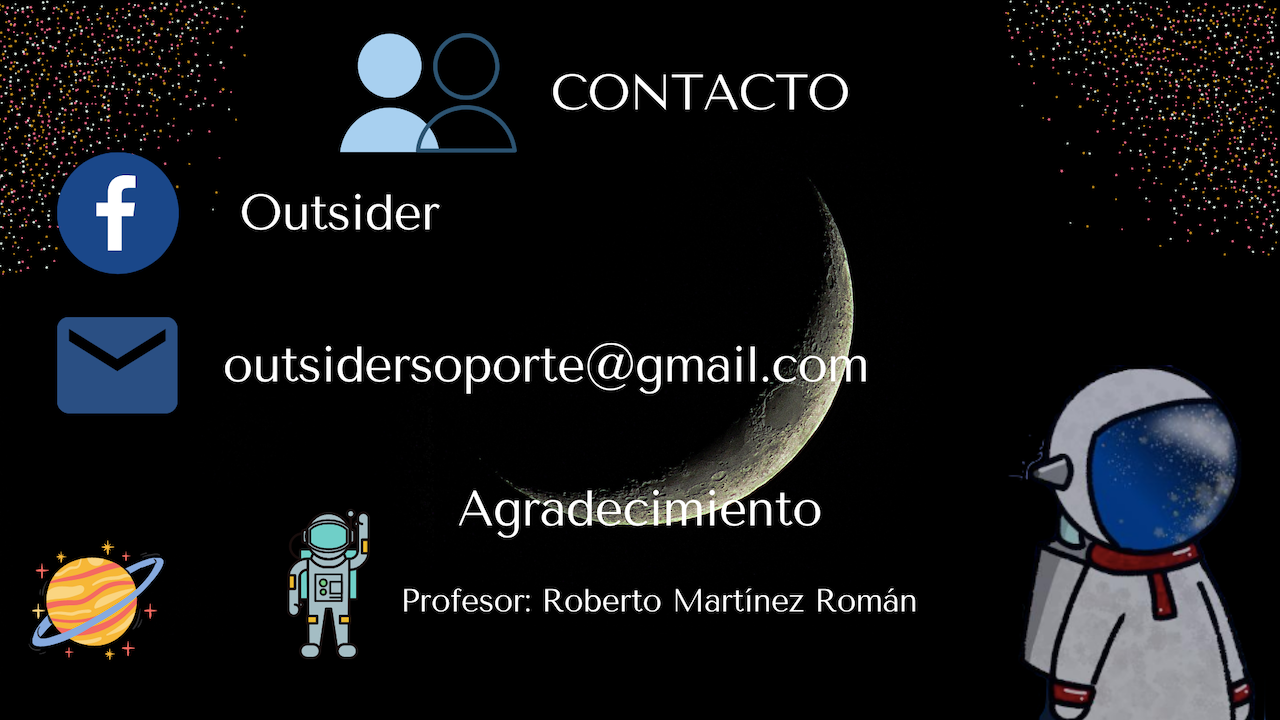
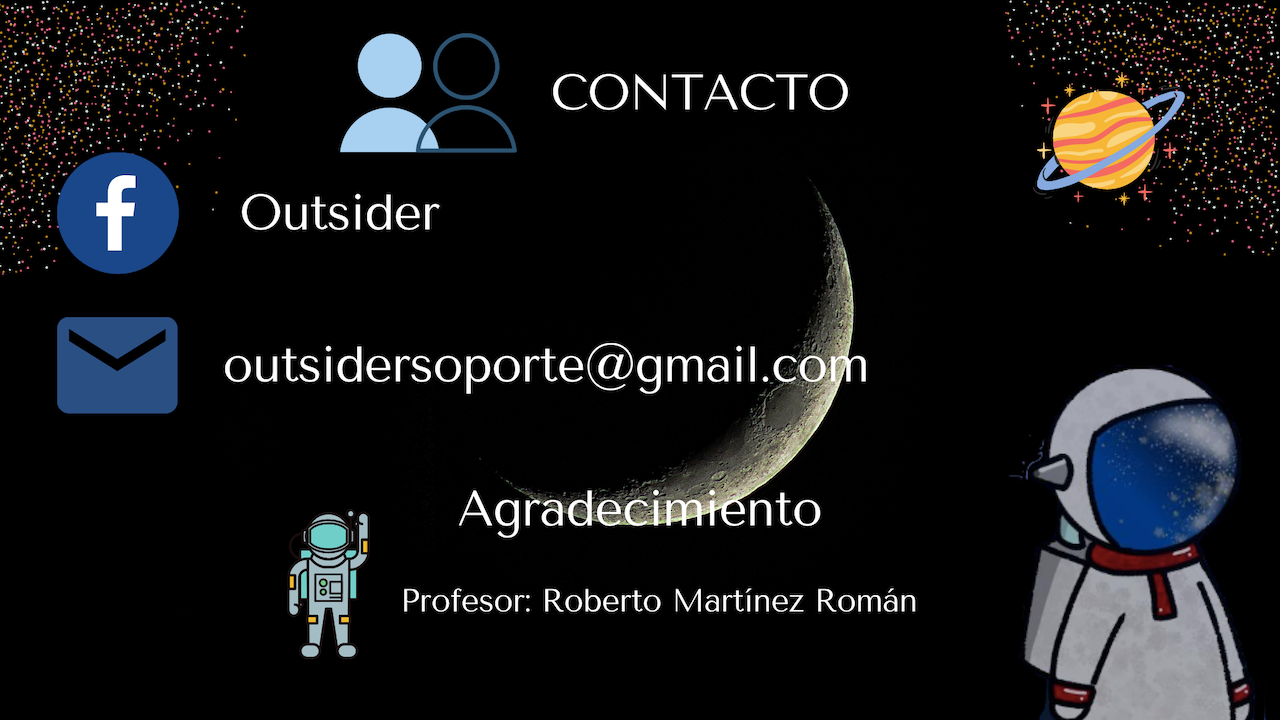
Boton Back

Changed region(s): [[0.8125, 0.1222, 0.9375, 0.275], [0.0, 0.7639, 0.125, 0.9167]]

diff --git a/core/src/mx/itesm/enigma/outsider/PantallaConfiguracion.java b/core/src/mx/itesm/enigma/outsider/PantallaConfiguracion.java
@@ -55,7 +55,7 @@ public class PantallaConfiguracion extends Pantalla {
 
         ImageButton btnNP = new ImageButton(trdBtNuevaPartida, trdBtNuevaPartidaInv);
 
-        btnNP.setPosition(ANCHO * .8f, ALTO * .39F, Align.topLeft);
+        btnNP.setPosition(ANCHO * .48f, ALTO * .39F, Align.topLeft);
 
         btnNP.addListener(new ClickListener() {
             @Override
@@ -84,7 +84,7 @@ public class PantallaConfiguracion extends Pantalla {
         final ImageButton.ImageButtonStyle Apagado=new ImageButton.ImageButtonStyle(estiloApagado);
 
         final ImageButton btnM = new ImageButton(trdBtMusica, trdBtMusicaInv);
-        btnM.setPosition(ANCHO * .53F, ALTO * .3F, Align.center);
+        btnM.setPosition(ANCHO * .7F, ALTO * .3F, Align.center);
 
         //Listener Música
         btnM.addListener(new ClickListener() {
@@ -130,7 +130,7 @@ public class PantallaConfiguracion extends Pantalla {
         final ImageButton.ImageButtonStyle ApagadoSonido =new ImageButton.ImageButtonStyle(estiloApagadosonido);
 
         final ImageButton btnS = new ImageButton(trdBtnSonido, trdBtnSonidoInv);
-        btnS.setPosition(ANCHO * .7F, ALTO * .3F, Align.center);
+        btnS.setPosition(ANCHO * .86F, ALTO * .3F, Align.center);
 
         //Leer preferencias
         final Preferences preferences=Gdx.app.getPreferences("Sonido");

diff --git a/core/src/mx/itesm/enigma/outsider/PantallaMapa.java b/core/src/mx/itesm/enigma/outsider/PantallaMapa.java
@@ -108,7 +108,7 @@ public class PantallaMapa extends Pantalla {
         ImageButton btnNP = new ImageButton(trdBtNuevaPartida, trdBtNuevaPartidaInv);
 
 
-        btnNP.setPosition(ANCHO * .85f, ALTO * .23F, Align.topLeft);
+        btnNP.setPosition(ANCHO * .01f, ALTO * .97F, Align.topLeft);
         btnNivel1.setPosition(ANCHO * .42f, ALTO * .32F, Align.topLeft);
         btnNivel2.setPosition(ANCHO * .7f, ALTO * .62F, Align.topLeft);
         btnNivel3.setPosition(ANCHO * .38f, ALTO * .77F, Align.topLeft);

diff --git a/core/src/mx/itesm/enigma/outsider/PantallaAcercaDe.java b/core/src/mx/itesm/enigma/outsider/PantallaAcercaDe.java
@@ -125,7 +125,7 @@ public class PantallaAcercaDe extends Pantalla {
         Posicion e inicializacion de los botones
          */
 
-        btnNP.setPosition(ANCHO * .83f, ALTO * .25F, Align.topLeft);
+        btnNP.setPosition(ANCHO * .01f, ALTO * .97F, Align.topLeft);
         btnK.setPosition(ANCHO*.15f,ALTO*.55f, Align.center);
         btnM.setPosition(ANCHO*.45f,ALTO*.55f, Align.center);
         btnI.setPosition(ANCHO*.15f,ALTO*.16f, Align.center);

diff --git a/core/src/mx/itesm/enigma/outsider/PantallaAyuda.java b/core/src/mx/itesm/enigma/outsider/PantallaAyuda.java
@@ -56,7 +56,7 @@ public class PantallaAyuda extends Pantalla {
 
         ImageButton btnNP = new ImageButton(trdBtNuevaPartida, trdBtNuevaPartidaInv);
 
-        btnNP.setPosition(ANCHO * .8f, ALTO * .25F, Align.topLeft);
+        btnNP.setPosition(ANCHO * .06f, ALTO * .2F, Align.topLeft);
 
         btnNP.addListener(new ClickListener() {
             @Override

diff --git a/core/src/mx/itesm/enigma/outsider/PantallaHistoria.java b/core/src/mx/itesm/enigma/outsider/PantallaHistoria.java
@@ -56,7 +56,7 @@ public class PantallaHistoria extends Pantalla {
 
         ImageButton btnH = new ImageButton(trdBtconf,trdBtConfInv);
 
-        btnH.setPosition(ANCHO * .8f, ALTO * .18F, Align.topLeft);
+        btnH.setPosition(ANCHO * .08f, ALTO * .95F, Align.topLeft);
 
         btnH.addListener(new ClickListener() {
             @Override

diff --git a/core/src/mx/itesm/enigma/outsider/PantallaContacto.java b/core/src/mx/itesm/enigma/outsider/PantallaContacto.java
@@ -55,7 +55,7 @@ public class PantallaContacto extends Pantalla {
 
         ImageButton btnH = new ImageButton(trdBtconf,trdBtConfInv);
 
-        btnH.setPosition(ANCHO * .8f, ALTO * .8F, Align.topLeft);
+        btnH.setPosition(ANCHO * .03f, ALTO * .3F, Align.topLeft);
 
         btnH.addListener(new ClickListener() {
             @Override
